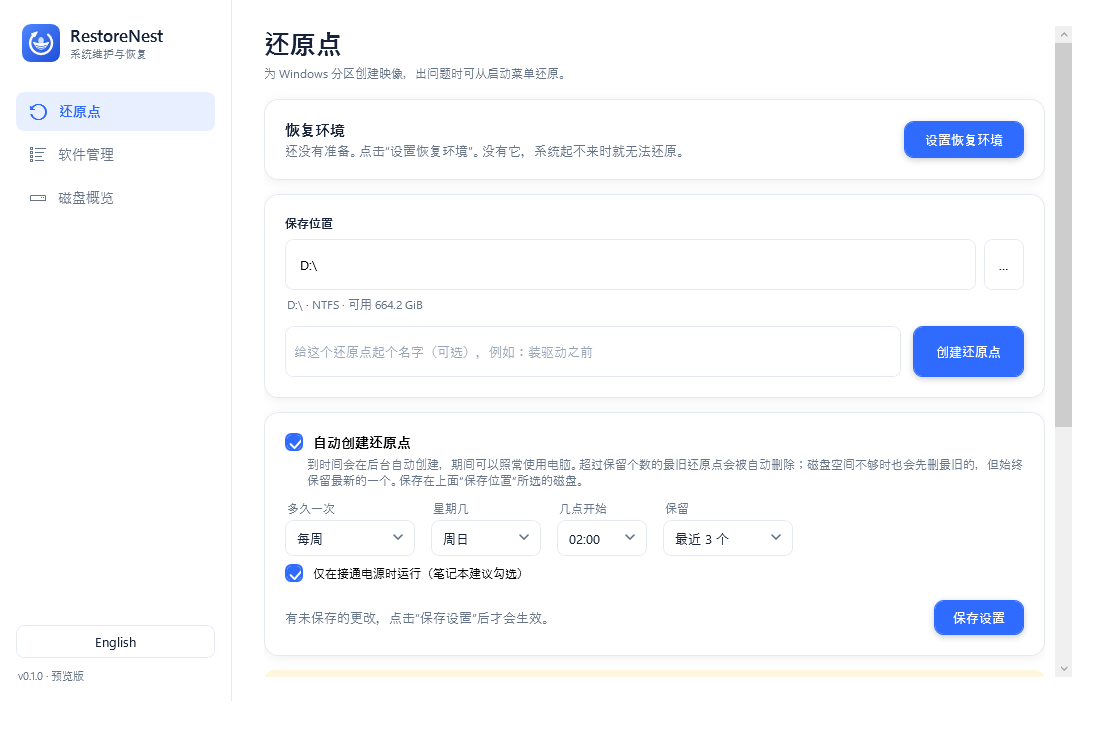
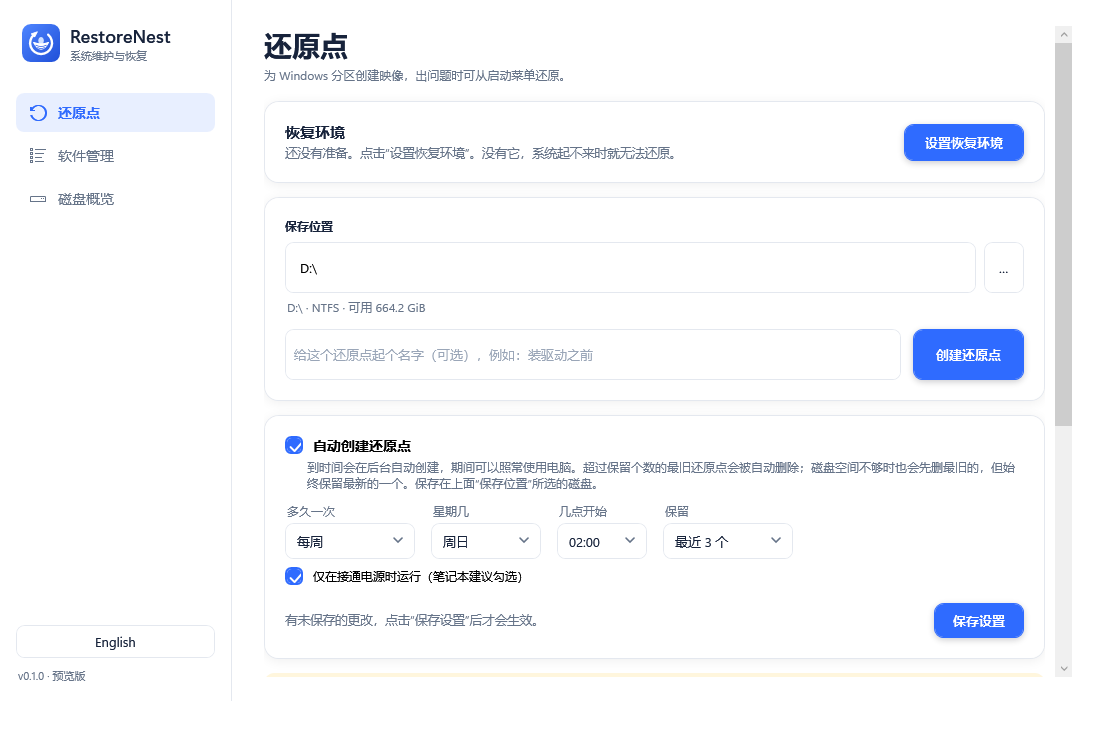
feat(ui): smoother text rendering and a display font for headings

diff --git a/src/SystemCare/MainWindow.xaml b/src/SystemCare/MainWindow.xaml
@@ -1,4 +1,4 @@
-<Window x:Class="SystemCare.MainWindow" xmlns="http://schemas.microsoft.com/winfx/2006/xaml/presentation" xmlns:x="http://schemas.microsoft.com/winfx/2006/xaml" Title="RestoreNest" Width="1120" Height="740" MinWidth="860" MinHeight="560" Background="{StaticResource PageBg}" Foreground="{StaticResource Ink}" FontFamily="Segoe UI Variable Text, Segoe UI" UseLayoutRounding="True" TextOptions.TextFormattingMode="Display">
+<Window x:Class="SystemCare.MainWindow" xmlns="http://schemas.microsoft.com/winfx/2006/xaml/presentation" xmlns:x="http://schemas.microsoft.com/winfx/2006/xaml" Title="RestoreNest" Width="1120" Height="740" MinWidth="860" MinHeight="560" Background="{StaticResource PageBg}" Foreground="{StaticResource Ink}" FontFamily="Segoe UI Variable Text, Segoe UI, Microsoft YaHei UI" UseLayoutRounding="True" TextOptions.TextFormattingMode="Ideal" TextOptions.TextRenderingMode="ClearType">
   <Grid>
     <Grid.ColumnDefinitions><ColumnDefinition Width="232"/><ColumnDefinition Width="*"/></Grid.ColumnDefinitions>
 
@@ -16,7 +16,7 @@
               <Path Data="M92,142 Q128,160 164,142 M104,158 Q128,172 152,158" Stroke="#2A5BE8" StrokeThickness="5" StrokeStartLineCap="Round" StrokeEndLineCap="Round"/>
             </Canvas>
           </Viewbox>
-          <StackPanel Margin="10,0,0,0" VerticalAlignment="Center"><TextBlock Text="RestoreNest" FontSize="17" FontWeight="SemiBold"/><TextBlock x:Name="Tagline" FontSize="11" Foreground="{StaticResource InkSoft}"/></StackPanel>
+          <StackPanel Margin="10,0,0,0" VerticalAlignment="Center"><TextBlock Text="RestoreNest" FontFamily="Segoe UI Variable Display, Segoe UI Variable Text, Segoe UI, Microsoft YaHei UI" FontSize="18" FontWeight="SemiBold"/><TextBlock x:Name="Tagline" FontSize="11" Foreground="{StaticResource InkSoft}"/></StackPanel>
         </StackPanel>
         <StackPanel DockPanel.Dock="Bottom">
           <Button x:Name="LanguageButton" Margin="0,0,0,10" Padding="12,7" Click="LanguageClick" AutomationProperties.Name="Language"/>
@@ -37,7 +37,7 @@
       <ScrollViewer x:Name="RestorePage" VerticalScrollBarVisibility="Auto" Padding="0,0,10,0">
       <Grid>
         <Grid.RowDefinitions><RowDefinition Height="Auto"/><RowDefinition Height="Auto"/><RowDefinition Height="Auto"/><RowDefinition Height="Auto"/><RowDefinition Height="Auto"/><RowDefinition Height="Auto"/></Grid.RowDefinitions>
-        <StackPanel Margin="0,0,0,18"><TextBlock x:Name="RpTitle" FontSize="26" FontWeight="SemiBold"/><TextBlock x:Name="RpSubtitle" Foreground="{StaticResource InkSoft}" Margin="0,4,0,0" TextWrapping="Wrap"/></StackPanel>
+        <StackPanel Margin="0,0,0,18"><TextBlock x:Name="RpTitle" FontFamily="Segoe UI Variable Display, Segoe UI Variable Text, Segoe UI, Microsoft YaHei UI" FontSize="28" FontWeight="SemiBold"/><TextBlock x:Name="RpSubtitle" Foreground="{StaticResource InkSoft}" Margin="0,4,0,0" TextWrapping="Wrap"/></StackPanel>
         <StackPanel Grid.Row="1">
         <Border x:Name="RpEnvCard" Style="{StaticResource Card}" Margin="0,0,0,14">
           <DockPanel>
@@ -111,7 +111,7 @@
       <!-- Apps -->
       <Grid x:Name="AppsPage" Visibility="Collapsed">
         <Grid.RowDefinitions><RowDefinition Height="Auto"/><RowDefinition Height="Auto"/><RowDefinition Height="*"/><RowDefinition Height="Auto"/></Grid.RowDefinitions>
-        <StackPanel Margin="0,0,0,18"><TextBlock x:Name="AppsTitle" FontSize="26" FontWeight="SemiBold"/><TextBlock x:Name="AppsSubtitle" Foreground="{StaticResource InkSoft}" Margin="0,4,0,0" TextWrapping="Wrap"/></StackPanel>
+        <StackPanel Margin="0,0,0,18"><TextBlock x:Name="AppsTitle" FontFamily="Segoe UI Variable Display, Segoe UI Variable Text, Segoe UI, Microsoft YaHei UI" FontSize="28" FontWeight="SemiBold"/><TextBlock x:Name="AppsSubtitle" Foreground="{StaticResource InkSoft}" Margin="0,4,0,0" TextWrapping="Wrap"/></StackPanel>
         <Grid Grid.Row="1" Margin="0,0,0,12"><TextBox x:Name="Search" TextChanged="SearchChanged" Padding="38,9,10,9" AutomationProperties.Name="Search apps"/><TextBlock Text="&#xE721;" FontFamily="Segoe MDL2 Assets" Foreground="{StaticResource InkSoft}" Margin="14,0,0,0" VerticalAlignment="Center" HorizontalAlignment="Left" IsHitTestVisible="False"/></Grid>
         <Border Grid.Row="2" Style="{StaticResource Card}" Padding="0">
           <ListView x:Name="AppList" Margin="6,0"><ListView.View><GridView><GridViewColumn Width="46"><GridViewColumn.CellTemplate><DataTemplate><CheckBox Margin="14,0,0,0" AutomationProperties.Name="{Binding App.Name}" IsChecked="{Binding IsSelected, Mode=TwoWay, UpdateSourceTrigger=PropertyChanged}" Checked="SelectionChanged" Unchecked="SelectionChanged"/></DataTemplate></GridViewColumn.CellTemplate></GridViewColumn><GridViewColumn x:Name="NameColumn" DisplayMemberBinding="{Binding App.Name}" Width="300"/><GridViewColumn x:Name="PublisherColumn" DisplayMemberBinding="{Binding App.Publisher}" Width="200"/><GridViewColumn x:Name="VersionColumn" DisplayMemberBinding="{Binding App.Version}" Width="120"/><GridViewColumn x:Name="SizeColumn" DisplayMemberBinding="{Binding SizeText}" Width="90"/></GridView></ListView.View></ListView>
@@ -128,7 +128,7 @@
         <Grid.RowDefinitions><RowDefinition Height="Auto"/><RowDefinition Height="*"/></Grid.RowDefinitions>
         <DockPanel Margin="0,0,0,18">
           <Button x:Name="RefreshDisksButton" DockPanel.Dock="Right" VerticalAlignment="Top" Click="RefreshDisksClick"/>
-          <StackPanel><TextBlock x:Name="DisksTitle" FontSize="26" FontWeight="SemiBold"/><TextBlock x:Name="DisksSubtitle" Foreground="{StaticResource InkSoft}" Margin="0,4,0,0"/></StackPanel>
+          <StackPanel><TextBlock x:Name="DisksTitle" FontFamily="Segoe UI Variable Display, Segoe UI Variable Text, Segoe UI, Microsoft YaHei UI" FontSize="28" FontWeight="SemiBold"/><TextBlock x:Name="DisksSubtitle" Foreground="{StaticResource InkSoft}" Margin="0,4,0,0"/></StackPanel>
         </DockPanel>
         <ScrollViewer Grid.Row="1" VerticalScrollBarVisibility="Auto">
           <ItemsControl x:Name="DiskList">
@@ -143,7 +143,7 @@
                       <ProgressBar x:Name="Bar" Minimum="0" Maximum="100" Value="{Binding UsedPercent, Mode=OneWay}" Margin="0,10,0,8" AutomationProperties.Name="{Binding Summary}"/>
                       <TextBlock Text="{Binding Summary}" FontSize="12.5" Foreground="{StaticResource InkSoft}"/>
                     </StackPanel>
-                    <StackPanel Grid.Column="2" HorizontalAlignment="Right" Margin="20,0,0,0"><TextBlock Text="{Binding FreeText}" FontSize="20" FontWeight="SemiBold" HorizontalAlignment="Right"/><TextBlock Text="{Binding FreeLabel}" FontSize="11.5" Foreground="{StaticResource InkSoft}" HorizontalAlignment="Right"/></StackPanel>
+                    <StackPanel Grid.Column="2" HorizontalAlignment="Right" Margin="20,0,0,0"><TextBlock Text="{Binding FreeText}" FontFamily="Segoe UI Variable Display, Segoe UI Variable Text, Segoe UI, Microsoft YaHei UI" FontSize="21" FontWeight="SemiBold" HorizontalAlignment="Right"/><TextBlock Text="{Binding FreeLabel}" FontSize="11.5" Foreground="{StaticResource InkSoft}" HorizontalAlignment="Right"/></StackPanel>
                   </Grid>
                 </Border>
                 <DataTemplate.Triggers>
